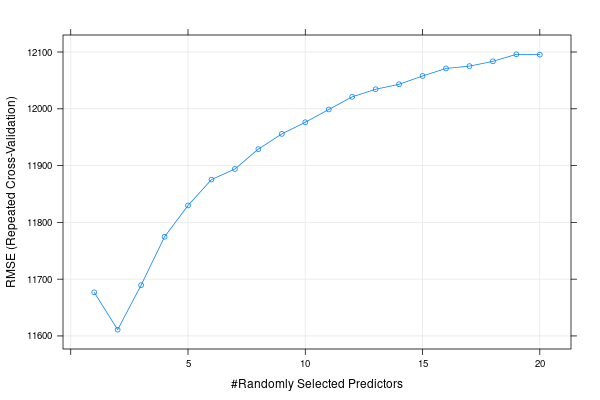
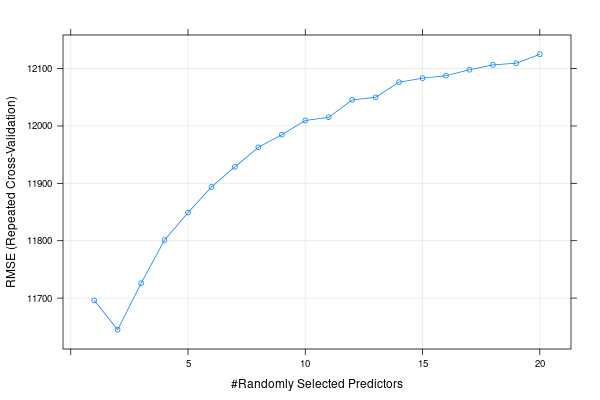
Update

diff --git a/README.md b/README.md
@@ -68,7 +68,7 @@ When analyzing the values for tuning in the [Random Forest](https://en.wikipedia
 Random Forest hyperparameters:
 ```r
 44 samples
-42 predictors
+41 predictors
 
 No pre-processing
 Resampling: Cross-Validated (4 fold, repeated 100 times) 
@@ -76,35 +76,35 @@ Summary of sample sizes: 36, 32, 32, 32, 32, 34, ...
 Resampling results across tuning parameters:
 
   mtry  RMSE      Rsquared   MAE     
-   1    11676.83  0.2693490  8890.271
-   2    11610.96  0.2621742  8567.306
-   3    11689.41  0.2532660  8545.084
-   4    11774.60  0.2456405  8566.194
-   5    11829.79  0.2412606  8588.528
-   6    11875.31  0.2389845  8612.784
-   7    11894.02  0.2387554  8619.813
-   8    11929.05  0.2371073  8638.596
-   9    11955.82  0.2346754  8646.653
-  10    11976.27  0.2335992  8662.602
-  11    11998.81  0.2320998  8673.819
-  12    12021.09  0.2316459  8690.126
-  13    12034.43  0.2305717  8695.754
-  14    12043.21  0.2298851  8710.435
-  15    12057.85  0.2295032  8714.386
-  16    12071.08  0.2287177  8724.016
-  17    12075.13  0.2281054  8723.732
-  18    12083.63  0.2279444  8728.356
-  19    12095.98  0.2277961  8746.239
-  20    12095.40  0.2269736  8743.080
+   1    11696.03  0.2650583  8908.104
+   2    11644.86  0.2573990  8595.478
+   3    11725.92  0.2491017  8578.859
+   4    11801.20  0.2426962  8602.588
+   5    11848.96  0.2400758  8615.154
+   6    11893.66  0.2365719  8630.176
+   7    11928.81  0.2357133  8647.704
+   8    11962.77  0.2330954  8676.169
+   9    11984.86  0.2317039  8684.750
+  10    12009.54  0.2305464  8693.922
+  11    12015.17  0.2310420  8703.591
+  12    12045.41  0.2280370  8713.845
+  13    12050.01  0.2293283  8715.078
+  14    12076.34  0.2270550  8737.591
+  15    12083.33  0.2269244  8741.872
+  16    12087.71  0.2266707  8737.902
+  17    12098.06  0.2262823  8746.408
+  18    12106.52  0.2260254  8755.035
+  19    12109.42  0.2262130  8756.194
+  20    12124.95  0.2252901  8771.455
 
 RMSE was used to select the optimal model using the smallest value.
 The final value used for the model was mtry = 2.
 
 predictions_rf
        2        6        7       15       16       23       24       27       31       35 
-37590.76 50693.10 23392.90 48466.79 47515.99 32318.44 31222.99 48384.71 33659.60 37503.35 
+37649.06 50594.18 22991.68 48395.64 47672.84 32429.35 31227.15 48233.68 34352.09 37294.73 
       38       39 
-51162.52 44316.09 
+51572.88 44684.72
 ```
 ![RMS vs Ramdom Predictors Random Forest model](https://github.com/diegoalarc/Innovation_laboratory_EAGLE/blob/main/Plots/RMSE_vs_Ramdom_Predictors_rforest.png?raw=true "RMS vs Ramdom Predictors Random Forest model")
 
@@ -112,7 +112,7 @@ predictions_rf
 Conditional Random Forest hyperparameters:
 ```r
 44 samples
-42 predictors
+41 predictors
 
 No pre-processing
 Resampling: Cross-Validated (4 fold, repeated 100 times) 
@@ -120,33 +120,33 @@ Summary of sample sizes: 36, 32, 32, 32, 32, 34, ...
 Resampling results across tuning parameters:
 
   mtry  RMSE      Rsquared   MAE      
-   1    12486.20  0.2296676  10084.008
-   2    12272.32  0.2353181   9880.017
-   3    12156.38  0.2325102   9744.929
-   4    12079.01  0.2327008   9648.538
-   5    12035.74  0.2313972   9580.441
-   6    12004.96  0.2311830   9535.947
-   7    11996.16  0.2289766   9512.078
-   8    11984.79  0.2288810   9487.270
-   9    11978.02  0.2284915   9465.462
-  10    11977.00  0.2275237   9450.583
-  11    11977.48  0.2262284   9439.691
-  12    11979.42  0.2258908   9432.252
-  13    11991.62  0.2239698   9432.875
-  14    11990.17  0.2226403   9419.119
-  15    11983.13  0.2249086   9407.877
-  16    11987.69  0.2238611   9403.176
-  17    11992.29  0.2229104   9401.631
-  18    12001.19  0.2214549   9396.781
-  19    11999.20  0.2215391   9385.345
-  20    12010.37  0.2202692   9390.855
+   1    12475.15  0.2352746  10076.645
+   2    12262.31  0.2360650   9875.970
+   3    12149.49  0.2341696   9743.101
+   4    12064.60  0.2347005   9635.064
+   5    12022.64  0.2346035   9573.056
+   6    11995.39  0.2326416   9528.815
+   7    11981.69  0.2305238   9498.562
+   8    11967.76  0.2313585   9472.172
+   9    11966.86  0.2311443   9458.778
+  10    11965.38  0.2307080   9440.515
+  11    11967.84  0.2299629   9435.052
+  12    11971.26  0.2270257   9425.480
+  13    11978.07  0.2240470   9421.372
+  14    11970.50  0.2259004   9402.157
+  15    11986.66  0.2252591   9414.824
+  16    11986.99  0.2239518   9403.290
+  17    11998.19  0.2219648   9410.803
+  18    11995.38  0.2218385   9395.224
+  19    12001.60  0.2215265   9390.147
+  20    11998.97  0.2213567   9374.369
 
 RMSE was used to select the optimal model using the smallest value.
 The final value used for the model was mtry = 10.
 
-redictions_crf
- [1] 39592.88 46064.02 31695.47 48051.45 47635.13 34848.37 34712.48 42283.37 35127.84 36431.38
-[11] 48565.71 44912.85
+predictions_crf
+ [1] 39555.69 45965.34 31059.18 48257.10 47660.85 34870.79 34825.09 43228.54 35510.17 35801.68
+[11] 48564.00 44670.39
 ```
 ![RMS vs Ramdom Predictors Conditional Random Forest model](https://github.com/diegoalarc/Innovation_laboratory_EAGLE/blob/main/Plots/RMSE_vs_Ramdom_Predictors_cforest.png?raw=true "RMS vs Ramdom Predictors Conditional Random Forest model")
 
@@ -174,13 +174,13 @@ These are the values with the best performance, after the auto-selection of the 
 
 | `R2` | `RMSE Kg` | `MAE Kg` |
 | :-------: | :------: | :-----: |
-| 0.9490709 | 3037.2625979 | 2430.5169700 |
+| 0.9469607 | 3034.6863584 | 2311.3509723 |
 
 - Conditional RandomForest model:
 
 | `R2` | `RMSE Kg` | `MAE Kg` |
 | :-------: | :------: | :-----: |
-| 0.8061893 | 6121.8310575 | 4740.1615328 |
+| 0.8286274 | 5916.6067670 | 4609.4892570 |
 
 ### Model comparison
 
